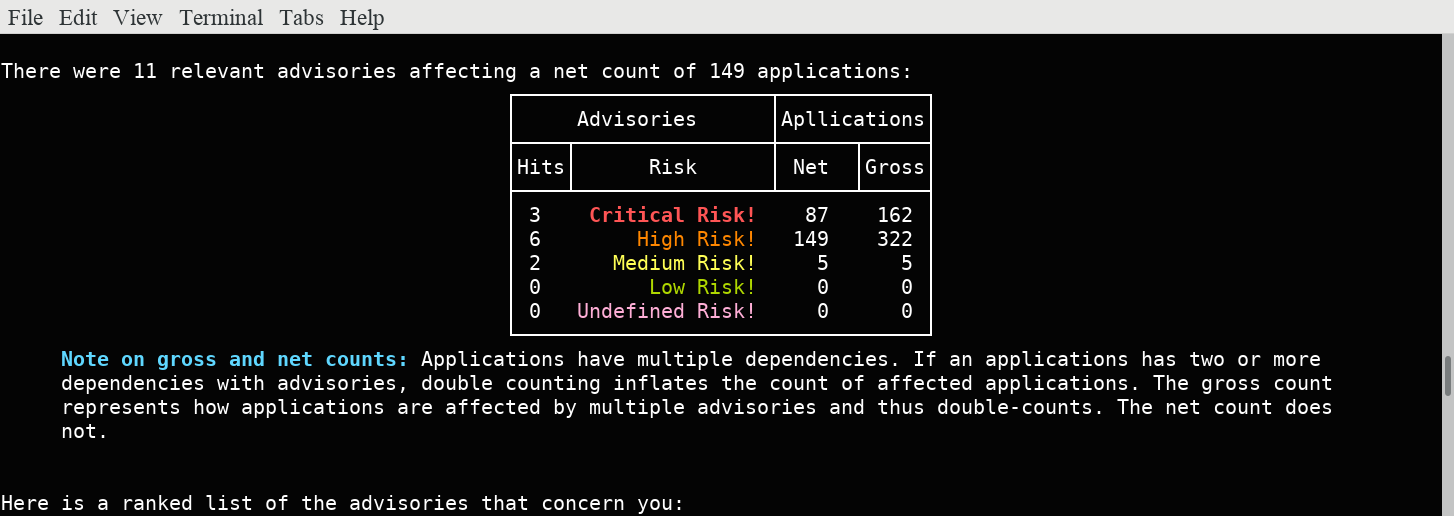
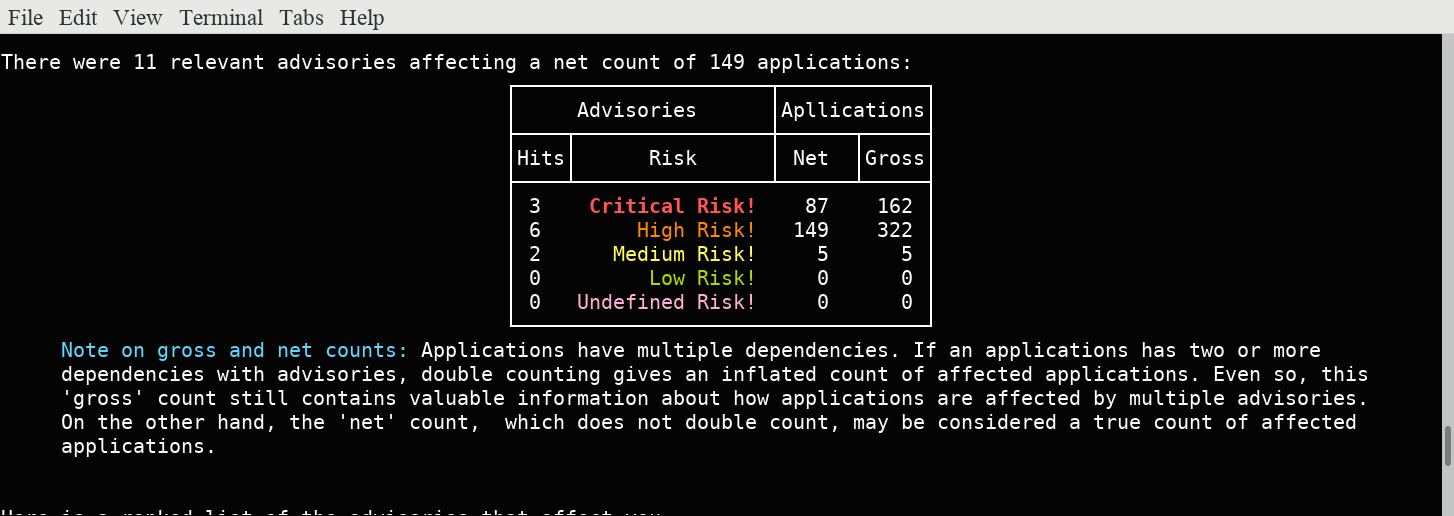
Tidying up

diff --git a/README.md b/README.md
@@ -1,4 +1,4 @@
-# ArchAudit-Report v1.00
+# ArchAudit-Report
 **License:** GPLv3
 
 **Dependencies:**
@@ -6,11 +6,11 @@
 * whoneeds (pkgtools AUR  https://aur.archlinux.org/packages/pkgtools/)
 
 ### What is it?
-Okay, being honest,  this utility is more informative than practical. However, **it is very informative!**
+Okay, being honest, this utility is more informative than practical. However, it is very informative!
 
-As you may know, ‘arch-audit’, is a tool which tells you which packages installed on your system have been issued security advisories, (see https://security.archlinux.org/). Unfortunately, the formatting of the arch-audit output is designed to facilitate piping to other auditing tools, for example Lynis. For a human, this raw output is neither informative, nor particularly readable.
+As you may know, ‘arch-audit’, is a tool which tells you which packages installed on your system have been issued security advisories, (see https://security.archlinux.org/). Unfortunately, the formatting of the arch-audit output is designed to facilitate piping to other auditing tools, (for example Lynis.) For a human, this raw output is neither informative, nor particularly readable.
 
-Written in bash, ‘archaudit-report’ parses the raw output from ‘arch-audit’ into a formatted, easy to read top down look at how the underlying advisories affect your applications.
+Written in bash, ‘archaudit-report’ parses the raw output from ‘arch-audit’ and pipes it to 'whoneeds'. Analysing the output from the pipe, it then uses this data to prepare an easy to read, top down look at how the underlying advisories affect your applications.
 
 ### Features:
 1. Colour coded highlights of the package name and associated risk.
@@ -23,14 +23,11 @@ Written in bash, ‘archaudit-report’ parses the raw output from ‘arch-audit
       * A similar breakdown as above, detailing the number of applications affected at each risk level.
       * A ranked summary of the advisories, sorted by level of risk then number of affected applications
       * A ranked summary of affected applications sorted by risk
-	
-**Note1:**
+
+**Notes:**
 This utility is meant to give an overview of which applications are affected by Arch Linux security advisories. It is not meant to be a measure of how secure a system is. To measure the overall level of system hardness, use Lynis or some other security auditing tool.
 
-**Note2:**
-It is important to realise that trying to switch  between packages in the hope of eliminating vulnerabilities is a fools errand. All it will achieve is a really bad migraine! 
-
-What you should really be paying attention to is: **“How quickly are they fixed?”**  and **“In the wild, how many exploits have been attributed to a particular advisory?”**  Unlike in Windows, in Linux the answers to these questions are usually very reassuring.
+Also, it is important to realise that trying to switch between applications in the hope of avoiding advisories is a fools errand. All it will achieve is a really bad migraine! What you should really be paying attention to is: *“How quickly is an advisory fixed?”*  and *“In the wild, how many exploits have been attributed to a particular advisory?”*  Unlike in Windows, in Linux the answers to these questions is usually very reassuring.
 
 *For an interesting take on Linux advisories and how it has gone wrong with WebKitGTK2, see this blog post by Gnome developer Michael Catanzaro: https://blogs.gnome.org/mcatanzaro/2016/02/01/on-webkit-security-updates/*
 
@@ -38,15 +35,13 @@ What you should really be paying attention to is: **“How quickly are they fixe
 # Installation:
 Once I get some feedback, I will put it in the AUR. Until then, installation is a matter of personal choice. This post on the Arch forums discusses various installation options for bash shells: https://bbs.archlinux.org/viewtopic.php?id=165042
 
-You should note that the choice of installation directory may be limited by your security model. For example, without fiddling, neither Grsecurity, nor Firejail with Apparmor enabled allow you to run executables from your home directory.
- 
-With the above caveat in mind, (apart from just dropping the file into a terminal,) the easiest installation method is to copy, (as root,) ‘archaudit-report’ into ‘/usr/local/bin/’. Since this is already in  $PATH, nothing further should be needed and simply entering ‘archaudit-report’ into a terminal will generate the report.
+Primarily, the most important consideration is to check that the file "archaudit-report" has permission to run as an executable. I believe 'chmod 755  archaudit-report’ does the trick, (alternatively you can use your file-manager GUI 😅)
 
-**Note:** It is **ABSOLUTELY NOT** necessary to run this shell with sudo!
+If your security model permits it, for testing, you can just drop the file into a terminal. For a full installation, (necessary to run ‘archaudit-report’ directly from the command line,) the easiest method is to copy, (as root,) ‘archaudit-report’ into ‘/usr/local/bin/’. Since this directory is already in  $PATH, nothing further should be needed.
 
-**Note:** Do not confuse ‘/usr/local/bin/’ with ‘/usr/bin’.
+Note, it is **ABSOLUTELY NOT** necessary to run this shell with sudo!
 
-If there is a problem, check that non root users have  permission to run it as an executable, I believe  ‘sudo chmod 755  archaudit-report’ does the trick.
+Similarly, do not confuse ‘/usr/local/bin/’ with ‘/usr/bin’.
 
 On a final note, when running ‘untrusted’😈 applications, a sandbox is a really good idea.  Firetools-0.9.46  has an excellent wizard which, (literally,)  allows you create a sandbox in seconds. Unfortunately, you will have to compile it yourself, since the AUR Firetools, (at version 0.9.44,) is out of date.
 
